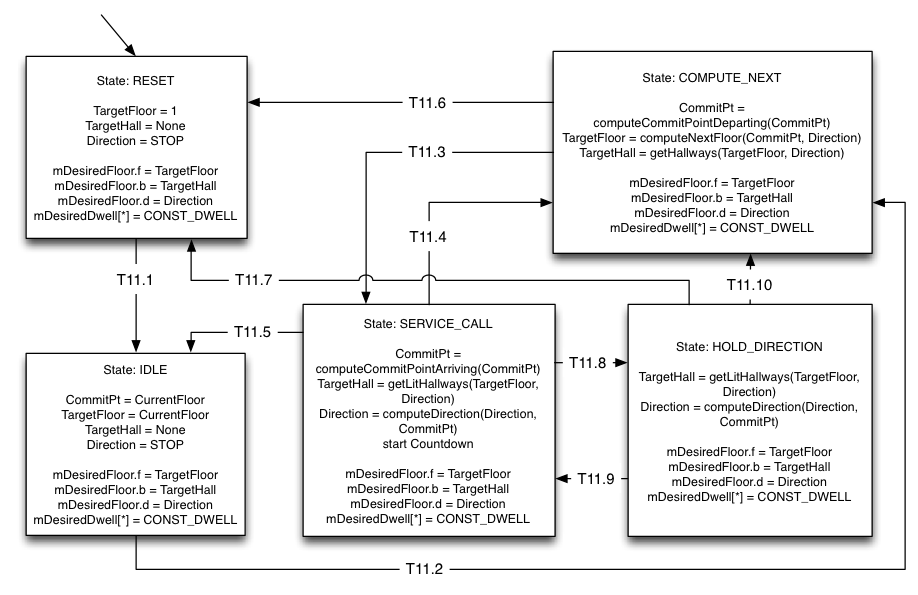
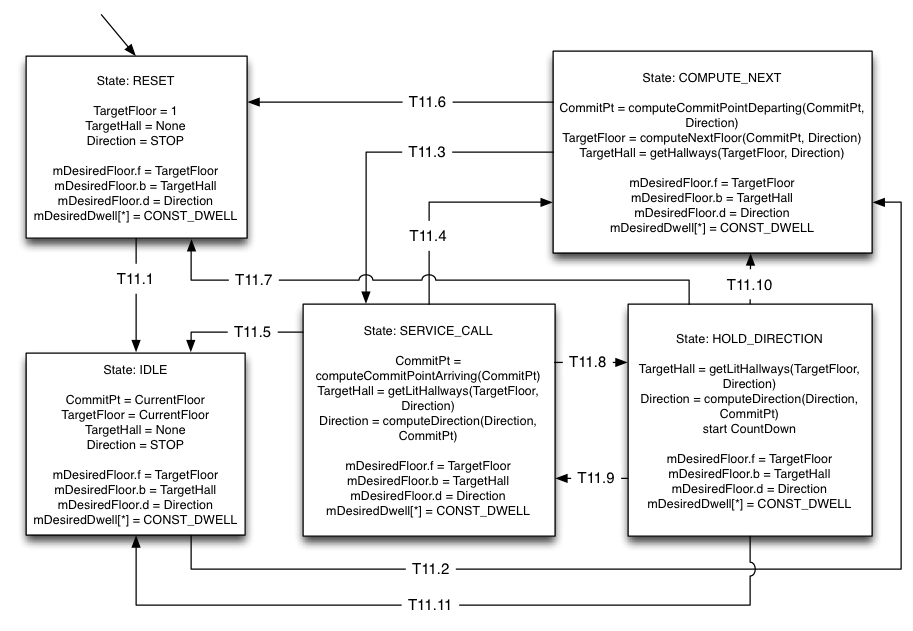
dispatcher updated

Changed region(s): [[0.0, 0.0605, 1.0, 0.9681]]

diff --git a/portfolio/reqs/requirements2.html b/portfolio/reqs/requirements2.html
@@ -2412,9 +2412,9 @@
     same time.<br>
     <h3>TIME-TRIGGERED BEHAVIORS:<br>
     </h3>
-    <p>7.2 &nbsp;&nbsp; If mAtFloor[f,b]=true and
-      mDesiredFloor.d=d, and any mDoorClosed[b,r] is false, then
-      CarLantern[d] shall be set to On.<br>
+    <p>7.2 &nbsp;&nbsp; If mAtFloor[f,b]=true and mDesiredFloor.d=d, and
+      any mDoorClosed[b,r] is false, then CarLantern[d] shall be set to
+      On.<br>
       7.3&nbsp;&nbsp;&nbsp; If all mDoorClosed[b,r]=true, CarLantern[d]
       shall be set to Off.<br>
       7.4&nbsp;&nbsp;&nbsp; If mDesiredFloor.d != d, CarLantern[d] shall
@@ -2443,7 +2443,8 @@
         <tr>
           <td valign="top">T7.1<br>
           </td>
-          <td valign="top">(mAtFloor[f,b] == true) &amp;&amp; (mDesiredFloor.d == d) &amp;&amp; (any mDoorClosed[b,r] ==
+          <td valign="top">(mAtFloor[f,b] == true) &amp;&amp;
+            (mDesiredFloor.d == d) &amp;&amp; (any mDoorClosed[b,r] ==
             false);<br>
           </td>
         </tr>
@@ -3307,8 +3308,8 @@
       11.13 &nbsp;&nbsp;&nbsp;mDesiredDwell shall always be set to a
       constant appropriate value for door open dwell. &nbsp; &nbsp;</p>
     <h3>STATECHART:</h3>
-    <img alt="SC_Dispatcher" src="SC_Dispatcher.png" height="595"
-      width="918">&nbsp; <br>
+    <img alt="SC_Dispatcher" src="SC_Dispatcher.png" height="631"
+      width="913">&nbsp; <br>
     <table style="text-align: left; width: 800px;" border="1"
       cellpadding="2" cellspacing="2">
       <tbody>
@@ -3378,8 +3379,14 @@
         <tr>
           <td valign="top">T11.10<br>
           </td>
-          <td valign="top">nextCallInDirection(CommitPt, Direction) ~=
-            None<br>
+          <td valign="top">nextCarCallInDirection(CommitPt, Direction)
+            ~= None<br>
+          </td>
+        </tr>
+        <tr>
+          <td valign="top">T11.11<br>
+          </td>
+          <td valign="top">CountDown expired<br>
           </td>
         </tr>
       </tbody>
@@ -3427,11 +3434,19 @@
         <tr>
           <td style="vertical-align: top;">nextCallInDirection(CommitPoint,
 
+
             Direction)<br>
           </td>
           <td style="vertical-align: top;">Returns the closest call for
             a floor beyond CommitPoint (exclusive), in Direction.<br>
           </td>
+        </tr>
+        <tr>
+          <td valign="top">nextCarCallInDirection(CommitPoint,
+            Direction)<br>
+          </td>
+          <td valign="top">Returns the closest car call for a floor
+            beyond CommitPoint (exclusive), in Direction.</td>
         </tr>
         <tr>
           <td style="vertical-align: top;">getHallways(TargetFloor,
@@ -3478,12 +3493,13 @@
           </td>
         </tr>
         <tr>
-          <td valign="top">computeCommitPointDeparting(CommitPoint)<br>
+          <td valign="top">computeCommitPointDeparting(CommitPoint,
+            Direction)<br>
           </td>
           <td valign="top">Computes a commit point based on the current
             CommitPoint. Returns the closest floor to the car level
-            position based on direction of drive speed, not including
-            the current CommitPoint.<br>
+            position based on direction of drive speed and Direction,
+            not including the current CommitPoint.<br>
           </td>
         </tr>
       </tbody>
